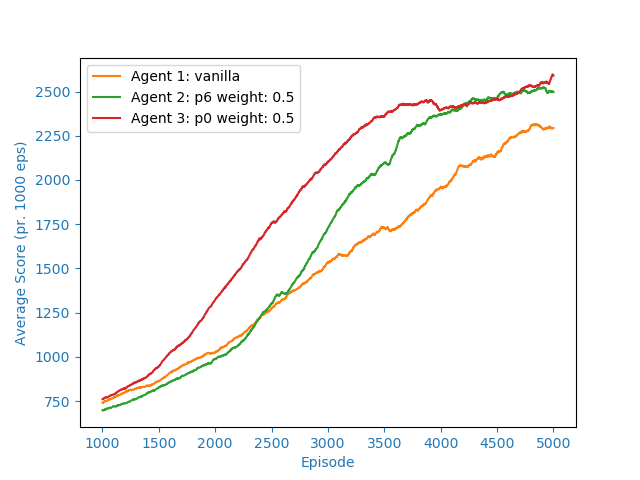
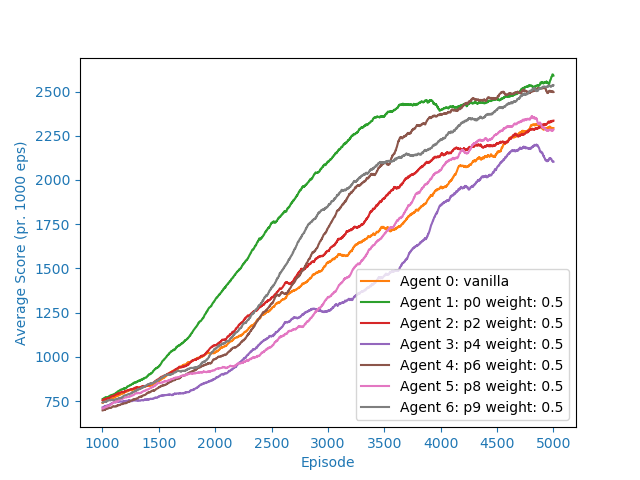
more plots

diff --git a/mario_dqn/plots/compare_multiple.py b/mario_dqn/plots/compare_multiple.py
@@ -3,11 +3,11 @@ import numpy as np
 import gym
 import json
 
-def compare(paths, legends, metric, label, test, limit=10000, avg_n=500, leg_pos='high'):
+def compare(paths, legends, metric, label, test, limit=10000, avg_n=500, leg_pos='high', tail=""):
 
     out_path = 'CompareMult_'+metric+'_'+str(limit)+'_'+test+'.png'
     if avg_n != 500:    
-        out_path = 'CompareMult_avg' + str(avg_n )+'_'+ metric+'_'+str(limit)+'_'+test+'.png'
+        out_path = 'CompareMult_avg' + str(avg_n )+'_'+ metric+'_'+str(limit)+'_'+ test + tail + '.png'
     
 
     data = []
@@ -18,6 +18,9 @@ def compare(paths, legends, metric, label, test, limit=10000, avg_n=500, leg_pos
     vals = []
     for d in data:
         vals.append(d[metric][0:limit])
+
+    for v in vals:
+        print(len(v))
 
     i = 0
     x = [i+1 for i in range(0, limit)]#len(vals))]
@@ -63,7 +66,7 @@ def compare(paths, legends, metric, label, test, limit=10000, avg_n=500, leg_pos
 
 # Orange, green, red, purple
 
-#m100k_lr0.00001_ed0.99995 - 30k -running
+"""#m100k_lr0.00001_ed0.99995 - 30k -running
 path1 = '/work/henriksv/code/mario-data-collection/mario_dqn/mario_DDQN_m100k_lr0.00001_ed0.99995-2/mario_DDQN_m100k_lr0.00001_ed0.99995-2_episodes.json'
 #m100k_lr0.00005_ed0.99995 - 40k
 path2 = '/work/henriksv/code/mario-data-collection/mario_dqn/mario_DDQN_m100k_lr0.00005_ed0.99995-2/mario_DDQN_m100k_lr0.00005_ed0.99995-2_episodes.json'
@@ -73,7 +76,7 @@ path3 = '/work/henriksv/code/mario-data-collection/mario_dqn/mario_DDQN_m100k_lr
 path4 = '/work/henriksv/code/mario-data-collection/mario_dqn/mario_DDQN_m100k_ed0.99995-2/mario_DDQN_m100k_ed0.99995-2_episodes.json'
 #m100k_lr0.001_ed0.99995 - 14k
 path5 = '/work/henriksv/code/mario-data-collection/mario_dqn/mario_DDQN_m100k_lr0.001_ed0.99995/mario_DDQN_m100k_lr0.001_ed0.99995_episodes.json'
-"""
+""""""
 paths = [path1, path2, path3, path4, path5]
 legends = ['Agent 1: LR:0.00001', 'Agent 2: LR:0.00005', 'Agent 3: LR:0.0001', 'Agent 4: LR:0.00025', 'Agent 5: LR:0.001']
 label = 'Finish Rate (pr. 500 eps)'
@@ -101,7 +104,7 @@ label = 'Average Score (pr. 1000 eps)'
 compare(paths, legends, 'scores', label,test, 40000, 1000, leg_pos)"""
 
 #Compare memory
-
+"""
 #m50k_lr0.00005
 path6 = '/work/henriksv/code/mario-data-collection/mario_dqn/mario_DDQN_m50k_lr0.00005/mario_DDQN_m50k_lr0.00005_episodes.json'
 #m250k_lr0.00005
@@ -113,7 +116,7 @@ path9 = '/work/henriksv/code/mario-data-collection/mario_dqn/mario_DDQN_m10k_lr0
 #m25k
 path10 = '/work/henriksv/code/mario-data-collection/mario_dqn/mario_DDQN_m25k_lr0.00005/mario_DDQN_m25k_lr0.00005_episodes.json'
 
-test = 'mem'
+test = 'mem'"""
 """
 paths = [path6, path2, path7, path8]
 legends = ['Agent 1: Mem:50k', 'Agent 2: Mem:100k', 'Agent 3: Mem:250k', 'Agent 4: Mem:500k']
@@ -144,11 +147,11 @@ label = 'Average Score (pr. 1000 eps)'
 compare(paths, legends, 'scores', label,test, n, 1000, leg_pos=pos)
 """
 
-test = 'qlty'
+"""test = 'qlty'
 
 path11 = '/work/henriksv/code/mario-data-collection/mario_dqn/mario_DDQN_up60_m25k_lr0.00005/mario_DDQN_up60_m25k_lr0.00005_episodes.json'
 path12 = '/work/henriksv/code/mario-data-collection/mario_dqn/mario_DDQN_up120_m25k_lr0.00005/mario_DDQN_up120_m25k_lr0.00005_episodes.json'
-"""
+""""""
 paths = [path11, path10, path12]
 legends = ['Agent 1: 60x60', 'Agent 2: 84x84', 'Agent 3: 120x120']
 
@@ -165,13 +168,106 @@ label = 'Average Score (pr. 1000 eps)'
 compare(paths, legends, 'scores', label,test, n, 1000, leg_pos=pos)"""
 
 test = 'emo'
+pathX = '/work/henriksv/code/mario-data-collection/mario_dqn/mario_DDQN_m10k_lr0.00005/mario_DDQN_m10k_lr0.00005_episodes.json'
 
-path13 = '/work/henriksv/code/mario-data-collection/mario_dqn/mario_EDDQN_p0_0.5/mario_EDDQN_p0_0.5_episodes.json'
+path0 = '/work/henriksv/code/mario-data-collection/mario_dqn/mario_EDDQN_p0_0.5/mario_EDDQN_p0_0.5_episodes.json'
+path1 = '/work/henriksv/code/mario-data-collection/mario_dqn/mario_EDDQN_p1_0.5_v4/mario_EDDQN_p1_0.5_v4_episodes.json'
+path2 = '/work/henriksv/code/mario-data-collection/mario_dqn/mario_EDDQN_p2_0.5/mario_EDDQN_p2_0.5_episodes.json'
+path3 = '/work/henriksv/code/mario-data-collection/mario_dqn/mario_EDDQN_p3_0.5_v4/mario_EDDQN_p3_0.5_v4_episodes.json'
+path4 = '/work/henriksv/code/mario-data-collection/mario_dqn/mario_EDDQN_p4_0.5/mario_EDDQN_p4_0.5_episodes.json'
+path5 = '/work/henriksv/code/mario-data-collection/mario_dqn/mario_EDDQN_p5_0.5_v3/mario_EDDQN_p5_0.5_v3_episodes.json'
+path6 = '/work/henriksv/code/mario-data-collection/mario_dqn/mario_EDDQN_p6_0.5/mario_EDDQN_p6_0.5_episodes.json'
+path7 = '/work/henriksv/code/mario-data-collection/mario_dqn/mario_EDDQN_p7_0.5_v4/mario_EDDQN_p7_0.5_v4_episodes.json'
+path8 = '/work/henriksv/code/mario-data-collection/mario_dqn/mario_EDDQN_p8_0.5/mario_EDDQN_p8_0.5_episodes.json'
+path9 = '/work/henriksv/code/mario-data-collection/mario_dqn/mario_EDDQN_p9_0.5/mario_EDDQN_p9_0.5_episodes.json'
 
-paths = [path9, path11, path13]
-legends = ['Agent 1: vanilla', 'Agent 2: p6 weight: 0.5', 'Agent 3: p0 weight: 0.5']
+# Best
+paths = [
+    pathX, 
+    path0, #17000
+    path1, #10000
+    #path2, #10000
+    #path3, #10000
+    #path4, #10000
+    #path5, #17000
+    path6, #17000
+    path7, 
+    #path8, #11000
+    path9  #10000
+    ]
 
-n = 5000
+n = 10000
+legends = [
+    'Agent X: vanilla', 
+    'Agent 0: p0 ',
+    'Agent 1: p1 ', 
+    'Agent 6: p6 ', 
+    'Agent 7: p7 ', 
+    'Agent 9: p9 '
+    ]
+
+tail = "-BEST"
+pos = 'low'
+label = 'Finish Rate (pr. 1000 eps)'
+compare(paths, legends, 'success', label,test, n, 1000, leg_pos=pos, tail=tail)
+
+label = 'Average Score (pr. 1000 eps)'
+compare(paths, legends, 'scores', label,test, n, 1000, leg_pos=pos, tail=tail)
+
+#Worst
+paths = [
+    pathX, 
+    path2, #10000
+    path3, #10000
+    path4, #10000
+    path5, #17000
+    path8, #11000
+    ]
+
+n = 10000
+legends = [
+    'Agent X: vanilla', 
+    'Agent 2: p2 ', 
+    'Agent 3: p3 ', 
+    'Agent 4: p4 ', 
+    'Agent 5: p5 ', 
+    'Agent 8: p8 ', 
+    ]
+
+tail = "-WORST"
+
+pos = 'low'
+label = 'Finish Rate (pr. 1000 eps)'
+compare(paths, legends, 'success', label,test, n, 1000, leg_pos=pos, tail=tail)
+
+label = 'Average Score (pr. 1000 eps)'
+compare(paths, legends, 'scores', label,test, n, 1000, leg_pos=pos, tail=tail)
+
+
+"""path01 = '/work/henriksv/code/mario-data-collection/mario_dqn/mario_EDDQN_p0_0.25/mario_EDDQN_p0_0.25_episodes.json'
+path02 = '/work/henriksv/code/mario-data-collection/mario_dqn/mario_EDDQN_p0_0.75/mario_EDDQN_p0_0.75_episodes.json'
+
+path61 = '/work/henriksv/code/mario-data-collection/mario_dqn/mario_EDDQN_p6_0.25/mario_EDDQN_p6_0.25_episodes.json'
+path62 = '/work/henriksv/code/mario-data-collection/mario_dqn/mario_EDDQN_p6_0.75/mario_EDDQN_p6_0.75_episodes.json'
+
+
+paths = [
+    pathX, 
+    path01,
+    path0,  
+    path02,
+    ]
+
+
+test = 'weight_p0'
+n = 15000
+legends = [
+    'Agent X: vanilla', 
+    'Agent 0: p0 - weight=0.25 ',
+    'Agent 1: p0 - weight=0.5 ', 
+    'Agent 2: p0 - weight=0.75 '
+    ]
+
 pos = 'high'
 label = 'Finish Rate (pr. 500 eps)'
 compare(paths, legends, 'success', label,test, n, leg_pos=pos)
@@ -183,8 +279,33 @@ compare(paths, legends, 'scores', label,test, n, leg_pos=pos)
 label = 'Average Score (pr. 1000 eps)'
 compare(paths, legends, 'scores', label,test, n, 1000, leg_pos=pos)
 
+paths = [
+    pathX, 
+    path61, 
+    path6,  
+    #path62
+    ]
 
 
+test = 'weight_p6'
+n = 15000
+legends = [
+    'Agent X: vanilla', 
+    'Agent 3: p6 - weight=0.25 ', 
+    'Agent 4: p6 - weight=0.5 ', 
+    'Agent 5: p6 - weight=0.75 '
+    ]
+
+pos = 'high'
+label = 'Finish Rate (pr. 500 eps)'
+compare(paths, legends, 'success', label,test, n, leg_pos=pos)
+label = 'Finish Rate (pr. 1000 eps)'
+compare(paths, legends, 'success', label,test, n, 1000, leg_pos=pos)
+
+label = 'Average Score (pr. 500 eps)'
+compare(paths, legends, 'scores', label,test, n, leg_pos=pos)
+label = 'Average Score (pr. 1000 eps)'
+compare(paths, legends, 'scores', label,test, n, 1000, leg_pos=pos)"""
 """
    episode_history = {
                 'epsilon' : epsilon_history,
